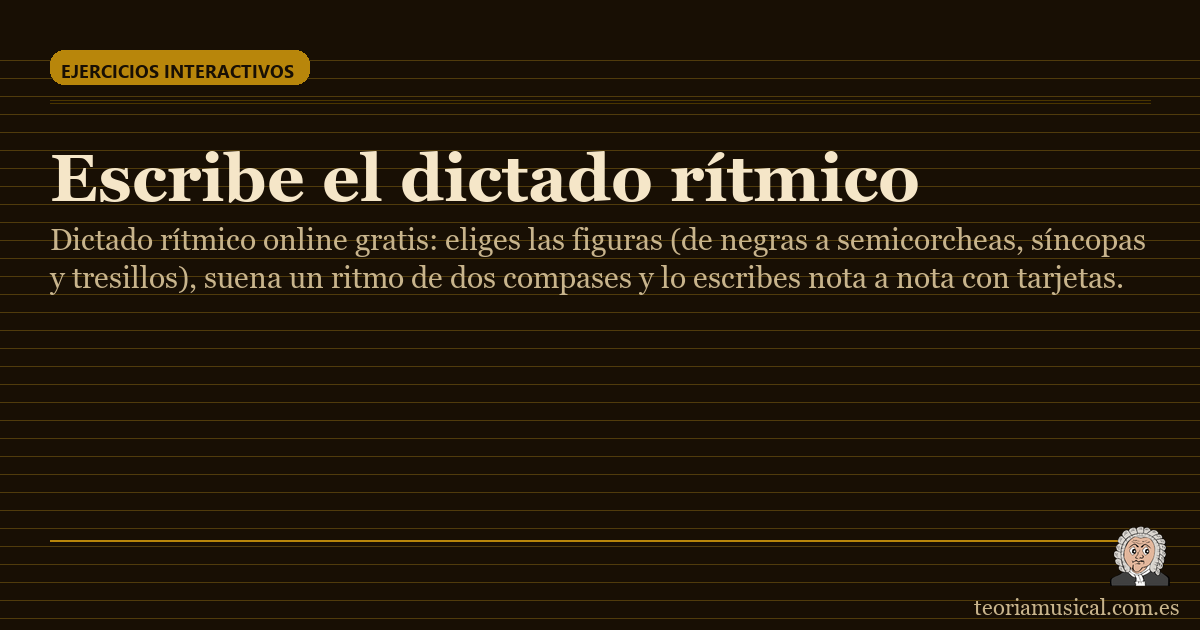
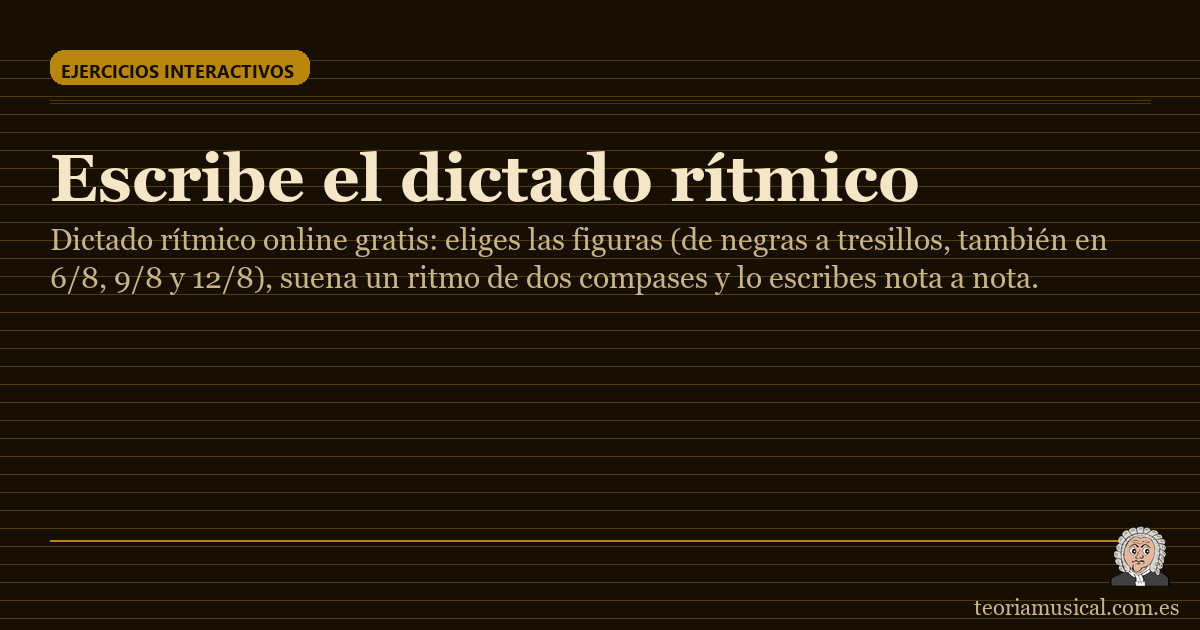
imagenes OG: la de la Banda Sinfonica Municipal de Alicante, que faltaba (la pagina de la agenda, subida en la revision del 16-11, apuntaba a una imagen inexistente), y las del dictado ritmico y de intervalos musicales con su descripcion actual. gen_og_pages.py ya no recorre /en/: en la revision sem

Changed region(s): [[0.0308, 0.3619, 0.9558, 0.4825]]

diff --git a/tools/gen_og_pages.py b/tools/gen_og_pages.py
@@ -158,6 +158,10 @@ count = 0
 skipped = 0
 for fp in walk():
     rel = os.path.relpath(fp, ROOT).replace(os.sep, '/')
+    # La edición inglesa tiene sus propias imágenes, con etiquetas en inglés (tools/en/gen-og-badge.py). Si este script
+    # las regenera, salen con la etiqueta española («TEORÍA MUSICAL»): pasó en la revisión semanal del 16-11-2026.
+    if rel.startswith('en/'):
+        continue
     if rel in SKIP:
         skipped += 1
         continue
